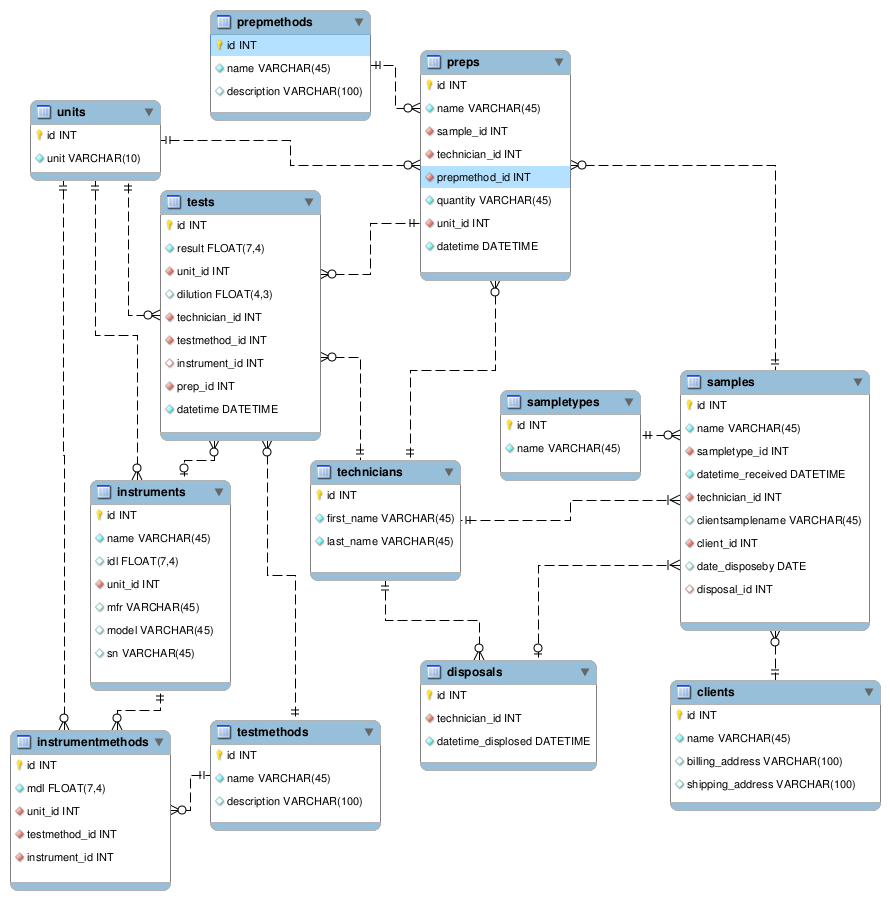
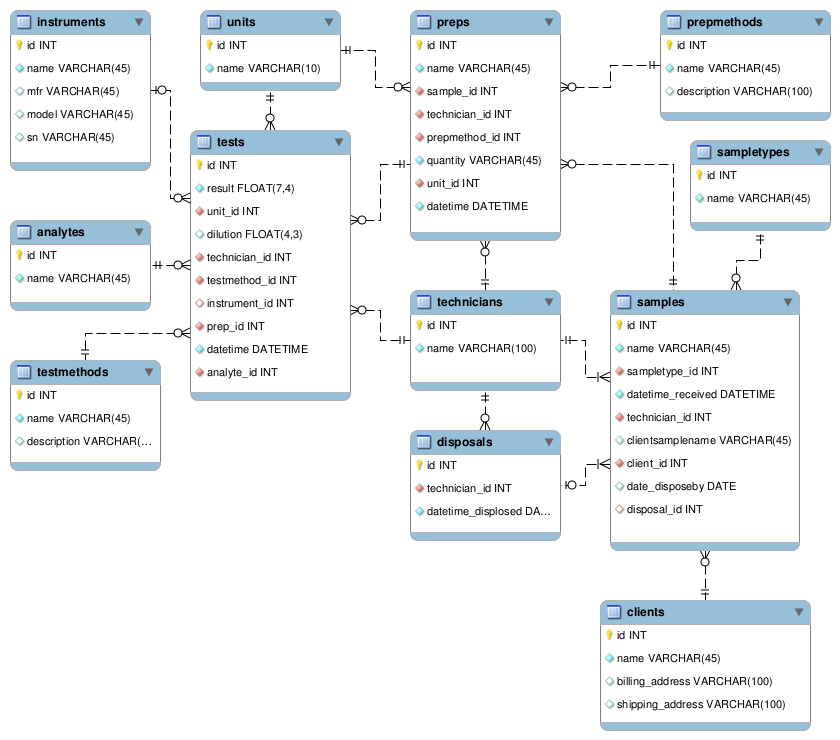
updated ERD

Changed region(s): [[0.0, 0.0, 0.9905, 0.9946], [0.65, 0.0932, 0.681, 0.1243], [0.4024, 0.4041, 0.4333, 0.4351]]

diff --git a/Building_Database_Tables.md b/Building_Database_Tables.md
@@ -15,13 +15,23 @@ For Scientific Research
 Session 5: Building Database Tables
 ========================================================
 
-Today we will use an example to review data models and create a database using MySQL Workbench.
+Today we will use an example to review data models and create a database design using MySQL Workbench.
+
+![mysql wb splash](images/mysql_wb_splash.png)
+
+
+Start MySQL Workbench
+========================================================
 
 Please open up MySQL Workbench so you can follow along.
 
-As we design the database on the screen, you should also create the same database design in MySQL Workbench on your own computer.
+![opening mysql wb from xfce](images/mysql_wb_menu.png)
+
+---
 
 We will use the design to automatically create the database tables.
+
+As we design the database on the screen, you should also create the same database design in MySQL Workbench on your own computer.
 
 
 Example: Sample Testing
@@ -102,8 +112,9 @@ By adding more tables, we can track additional entities:
 * Clients
 * Sample Disposal
 * Instruments
-* Instrument Detection Limits (IDLs)
-* Method Detection Limits (MDLs)
+* Analytes
+
+And even so, we still are not tracking containers or "splits".
 
 ---
 
